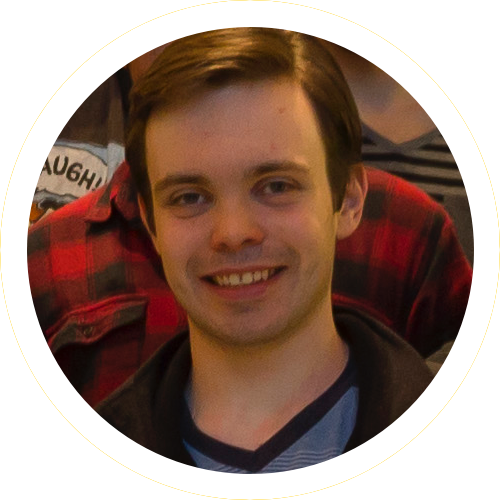
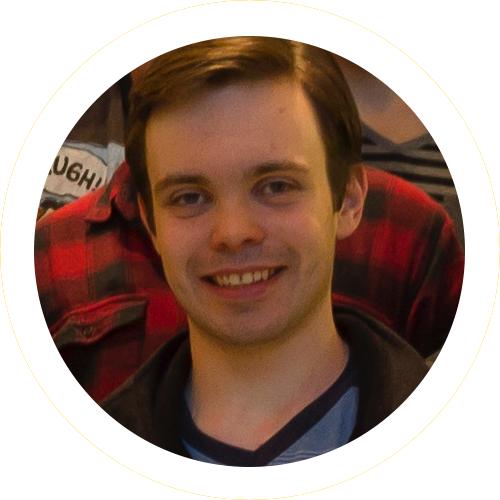
Testing image addition to main header

Changed region(s): [[0.03, 0.03, 0.96, 0.78], [0.12, 0.72, 0.78, 0.96], [0.78, 0.78, 0.84, 0.84]]

diff --git a/index.html b/index.html
@@ -15,7 +15,8 @@
 		<div id="particlesjs"></div>
 		<section class="header fluid-container">
 			<div class="container">
-				<h1>Under construction...</h1>
+				<h1>Steven Bock</h1>
+				<img src="img/me.png" alt="Steven Bock">
 			</div>
 		</section>
 		<section class="content fluid-container">
